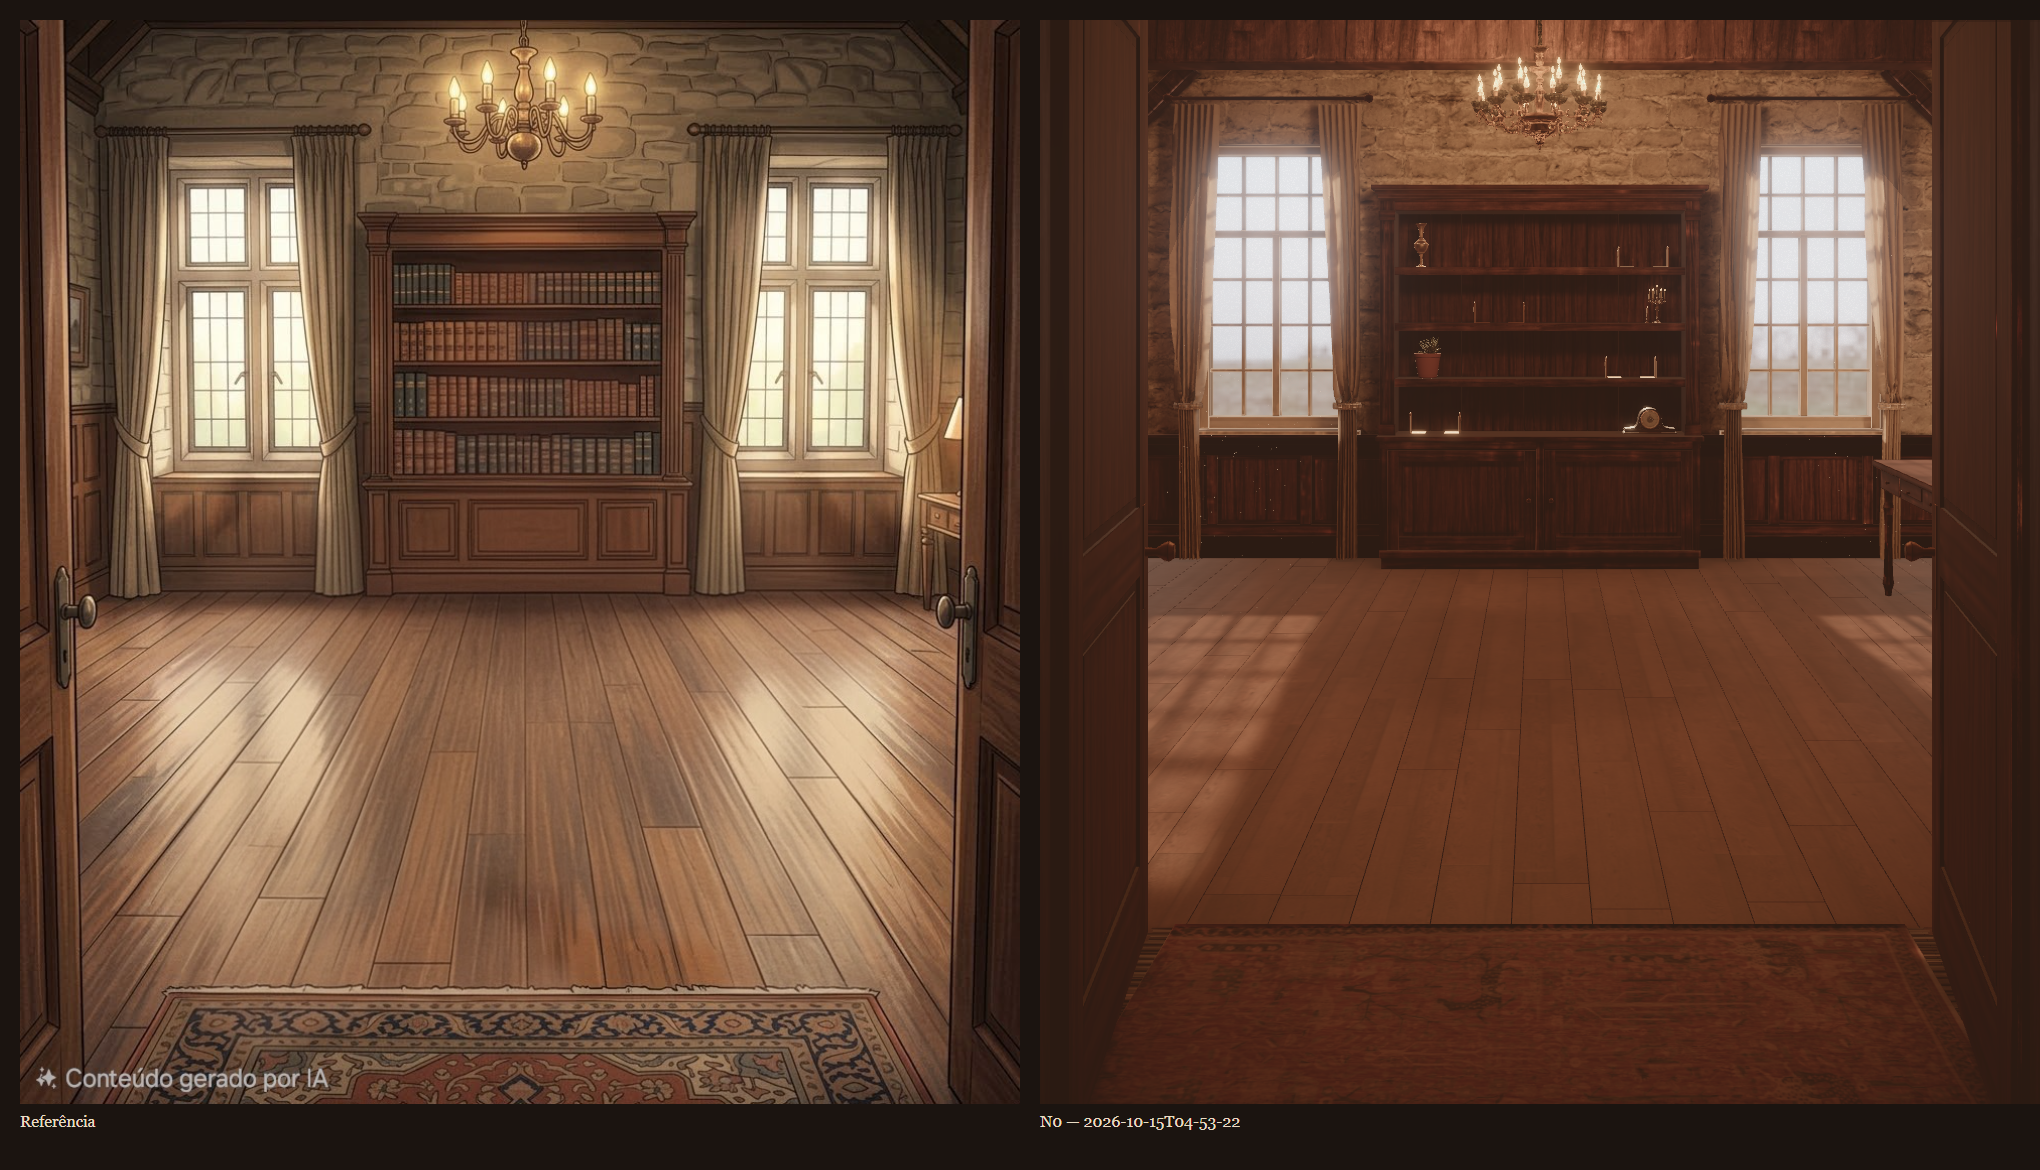
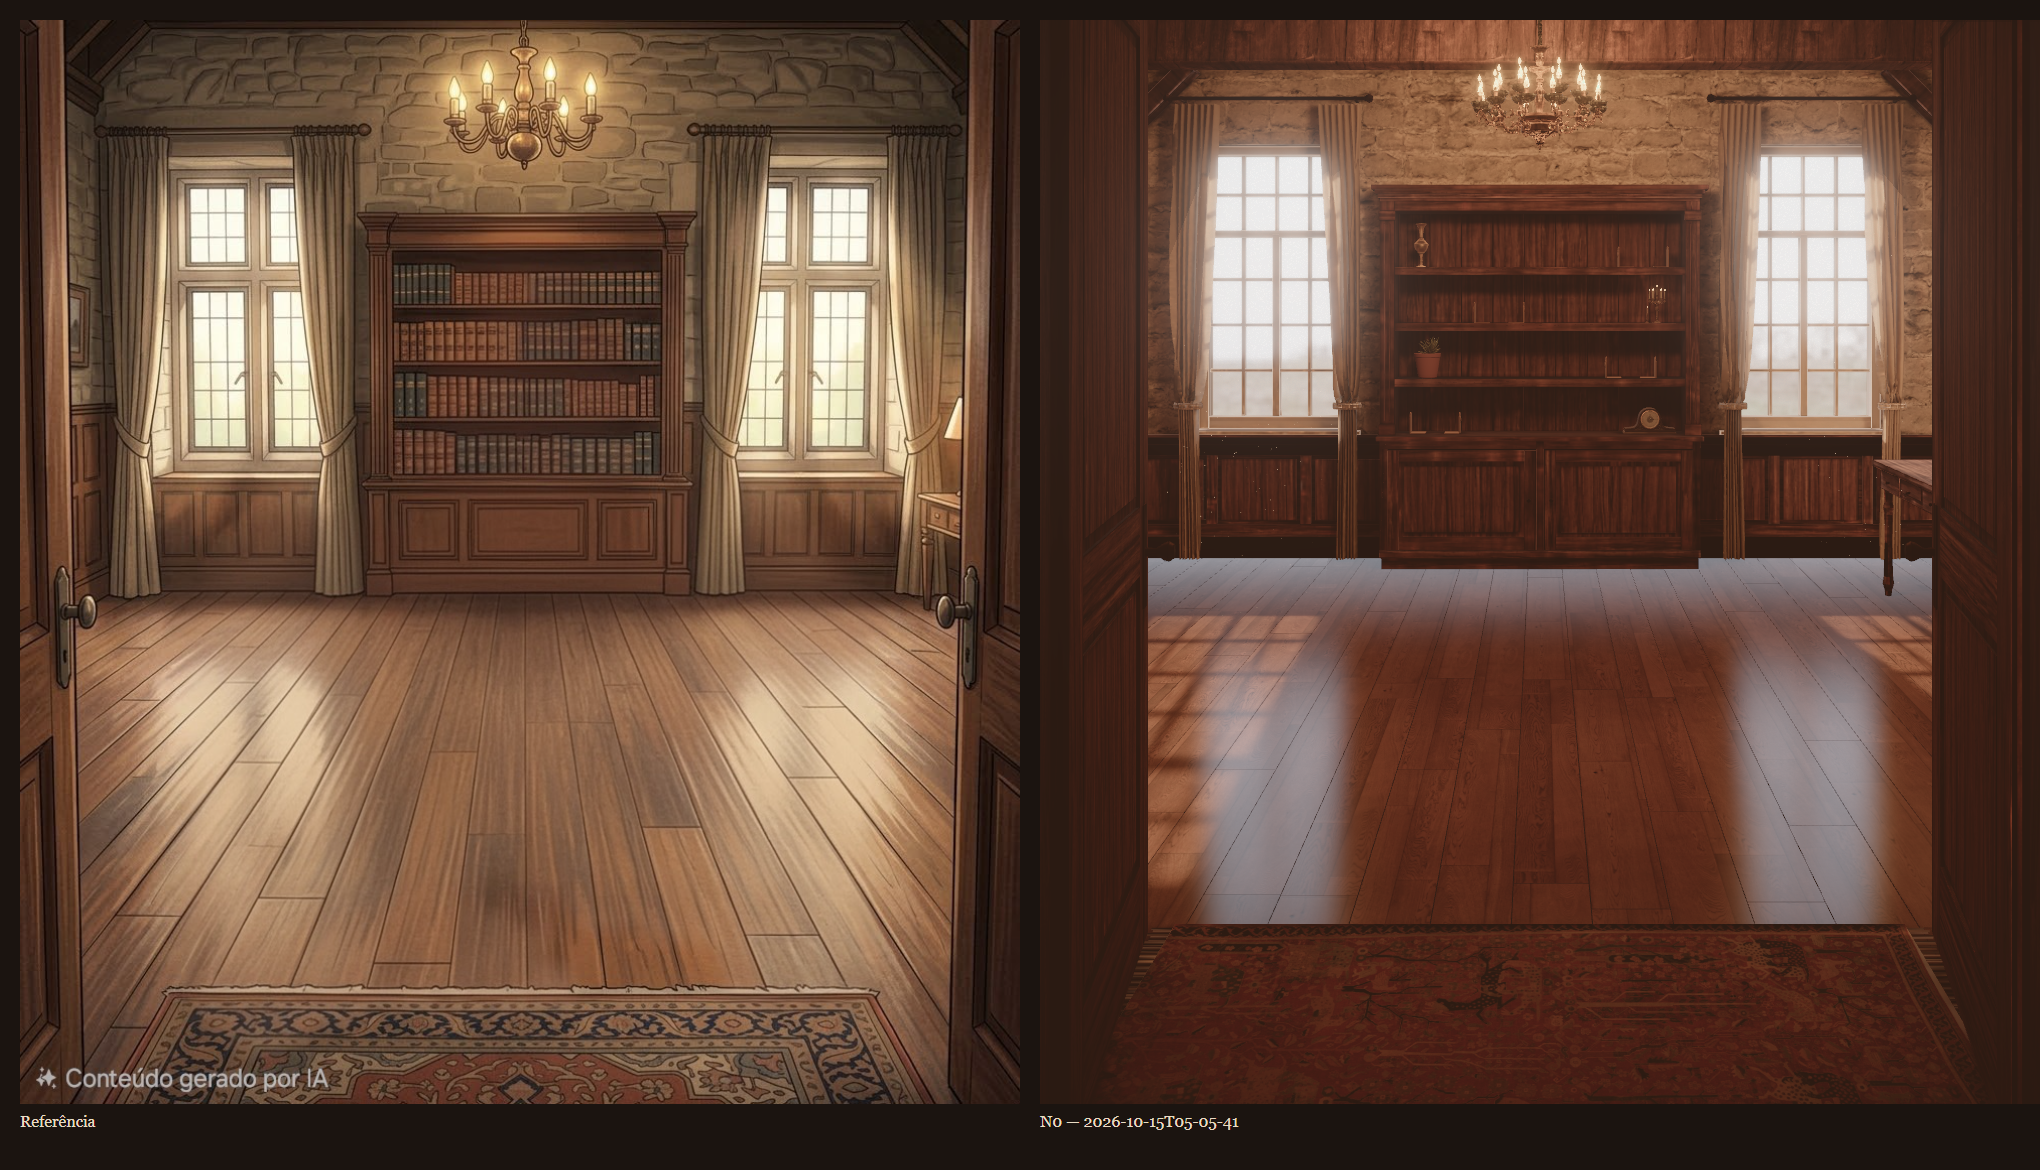
look dev: iterações 3 e 4 da sala (oclusão especular, quadriculado do sol, tapete)

diff --git a/src/scene/Lightmaps.ts b/src/scene/Lightmaps.ts
@@ -61,10 +61,17 @@ export async function loadAtlasTexture(info: AtlasInfo): Promise<Texture> {
   return tex
 }
 
-const LIGHTMAP_RGBM_CHUNK = ShaderChunk.lights_fragment_maps.replace(
-  'vec3 lightMapIrradiance = lightMapTexel.rgb * lightMapIntensity;',
-  'vec3 lightMapIrradiance = lightMapTexel.rgb * lightMapTexel.a * LB_RGBM_RANGE * lightMapIntensity;',
-)
+const LIGHTMAP_RGBM_CHUNK = ShaderChunk.lights_fragment_maps
+  .replace(
+    'vec3 lightMapIrradiance = lightMapTexel.rgb * lightMapIntensity;',
+    'vec3 lightMapIrradiance = lightMapTexel.rgb * lightMapTexel.a * LB_RGBM_RANGE * lightMapIntensity;',
+  )
+  // specular occlusion: the env map knows nothing about the room's shadows, the lightmap does
+  .replace(
+    'radiance += iblRadiance;',
+    'radiance += iblRadiance * clamp( smoothstep( 0.0, 1.6, dot( lightMapIrradiance, vec3( 0.2126, 0.7152, 0.0722 ) ) ), 0.15, 1.0 );\n\t// LB_RADIANCE_DONE',
+  )
+if (!LIGHTMAP_RGBM_CHUNK.includes('LB_RADIANCE_DONE')) throw new Error('lights_fragment_maps mudou: oclusão especular não aplicada')
 if (LIGHTMAP_RGBM_CHUNK === ShaderChunk.lights_fragment_maps) {
   throw new Error('three.js mudou o chunk lights_fragment_maps: o patch RGBM não foi aplicado')
 }
@@ -95,6 +102,13 @@ export function staticLightmapMaterial(
   const mat = (src as MeshStandardMaterial).isMeshStandardMaterial ? (src.clone() as MeshStandardMaterial) : new MeshStandardMaterial()
   mat.lightMap = lightMap
   mat.lightMapIntensity = intensity * CYCLES_TO_THREE
+  // the floor and the rug are seen at grazing angles: sharpen with anisotropic filtering
+  for (const t of [mat.map, mat.normalMap, mat.roughnessMap, mat.metalnessMap]) {
+    if (t && t.anisotropy < 8) {
+      t.anisotropy = 8
+      t.needsUpdate = true
+    }
+  }
   if (debugMode === 'static') {
     // look-dev: white albedo, lightmap + specular only
     mat.map = null
@@ -111,7 +125,7 @@ export function staticLightmapMaterial(
       shader.vertexShader = shader.vertexShader
         .replace('#include <common>', '#include <common>\nvarying vec3 lbWorldPos;')
         .replace('#include <project_vertex>', '#include <project_vertex>\n\tlbWorldPos = ( modelMatrix * vec4( transformed, 1.0 ) ).xyz;')
-      chunk = chunk.replace('radiance += iblRadiance;', `radiance += iblRadiance;\n${FLOOR_REFLECTION_SAMPLE}`)
+      chunk = chunk.replace('// LB_RADIANCE_DONE', FLOOR_REFLECTION_SAMPLE)
     }
     shader.fragmentShader = shader.fragmentShader
       .replace('#include <common>', `#include <common>\n#define LB_RGBM_RANGE ${range.toFixed(4)}\n${reflect ? FLOOR_REFLECTION_PARS : ''}`)
@@ -191,7 +205,6 @@ export function applyLightmaps(
       return out
     }
     mesh.material = Array.isArray(mesh.material) ? mesh.material.map(convert) : convert(mesh.material)
-    mesh.castShadow = false
     mesh.receiveShadow = false
     mesh.matrixAutoUpdate = false
     mesh.updateMatrix()

diff --git a/scripts/prepare-textures.ts b/scripts/prepare-textures.ts
@@ -166,15 +166,15 @@ async function main() {
   mkdirSync(OUT, { recursive: true })
 
   // Floor: wide varnished planks, warmed toward floor base #7A4E32.
-  await pbr('floor_wood', 'floor', { mean: '#6E4E36', saturation: 0.95, contrast: 1.15 }, { roughness: 0.32, spread: 0.7 })
+  await pbr('floor_wood', 'floor', { mean: '#735036', saturation: 0.7, contrast: 1.15 }, { roughness: 0.32, spread: 0.7 })
   // Stone: light limestone/sandstone #A89A84–#C8BBA2, slightly warm.
-  await pbr('wall_stone', 'stone', { mean: '#ADA18C', saturation: 0.65 }, { disp: true, roughness: 0.85 })
+  await pbr('wall_stone', 'stone', { mean: '#AA9C86', saturation: 0.55 }, { disp: true, roughness: 0.85 })
   // Bookcase: dark mahogany, 25% less saturated than the source.
-  await pbr('bookcase_wood', 'bookcase', { mean: '#4A3124', saturation: 0.5 }, { roughness: 0.42 })
+  await pbr('bookcase_wood', 'bookcase', { mean: '#5C3D2A', saturation: 0.55 }, { roughness: 0.42 })
   // Wainscot + door: same wood, one tone lighter (direção de arte: mesma família).
-  await pbr('bookcase_wood', 'wainscot', { mean: '#58392A', saturation: 0.5 }, { roughness: 0.45 })
+  await pbr('bookcase_wood', 'wainscot', { mean: '#674430', saturation: 0.55 }, { roughness: 0.45 })
   // Desk: same family, between the two.
-  await pbr('bookcase_wood', 'desk', { mean: '#523628', saturation: 0.55 }, { roughness: 0.4 })
+  await pbr('bookcase_wood', 'desk', { mean: '#5F3F2C', saturation: 0.55 }, { roughness: 0.4 })
   // Beams: rough grey wood tinted to dark brown.
   await pbr('beam_wood', 'beam', { mean: '#46322A', saturation: 0.45, contrast: 1.1 }, { roughness: 0.78 })
   // Ceiling: warm plaster, never pure white.
@@ -190,7 +190,7 @@ async function main() {
   const rugName = readdirSync(join(SRC, 'rug_albedo')).find((f) => /\.jpe?g$/i.test(f))!
   const crop = RUG_CROPS[rugName.replace(/\.jpe?g$/i, '')]
   const rug = sharp(join(SRC, 'rug_albedo', rugName)).extract(crop).rotate(90)
-  const rugImg = await colorMatch(rug, { mean: '#7E4A3A', amount: 0.4, contrast: 0.92, saturation: 0.95 })
+  const rugImg = await colorMatch(rug, { mean: '#7E4A3A', amount: 0.15, contrast: 1.05, saturation: 1.08 })
   await rugImg.resize(crop.size[0], crop.size[1], { fit: 'fill' }).jpeg({ quality: 92, mozjpeg: true }).toFile(join(OUT, 'rug_color.jpg'))
   written.rug_color = join(OUT, 'rug_color.jpg')
   await save(sharp(find('rug_pile', /_nor_gl_\d+k\./i)), 'rug_normal')

diff --git a/src/scene/Room.tsx b/src/scene/Room.tsx
@@ -1,13 +1,14 @@
 import { useGLTF } from '@react-three/drei'
 import { useThree } from '@react-three/fiber'
 import { use, useLayoutEffect, useMemo } from 'react'
-import { EquirectangularReflectionMapping, PMREMGenerator, type Texture } from 'three'
+import { EquirectangularReflectionMapping, PMREMGenerator, type Mesh, type Texture } from 'three'
 import { HDRLoader } from 'three/examples/jsm/loaders/HDRLoader.js'
 import { params } from '../app/params'
 import { useQuality } from '../state/quality'
 import { applyLightmaps, loadAtlasTexture, loadManifest, type LightmapManifest } from './Lightmaps'
 import { PlaceholderRoom } from './PlaceholderRoom'
 import { FloorReflection } from './FloorReflection'
+import { invalidateShadows } from './shadows'
 import { FloorJoints, Flames, WindowGlass } from './RoomExtras'
 
 interface RoomAssets {
@@ -48,6 +49,16 @@ function BakedRoom({ assets }: { assets: RoomAssets }) {
 
   const reflect = quality === 'high' && !params.off.has('reflect')
   const unbaked = useMemo(() => applyLightmaps(room, assets.manifest, assets.atlases, envMap, reflect), [room, assets, envMap, reflect])
+
+  // the bookcase and the back wall shade the shelf props from the real-time sun (it comes from behind)
+  useLayoutEffect(() => {
+    room.traverse((o) => {
+      const m = o as Mesh
+      const name = (Array.isArray(m.material) ? m.material[0]?.name : m.material?.name) ?? ''
+      if (m.isMesh && /^(bookcase|stone|wainscot|window_paint)/.test(name)) m.castShadow = true
+    })
+    invalidateShadows()
+  }, [room, unbaked])
 
   useLayoutEffect(() => {
     scene.environment = envMap

diff --git a/scripts/shot.ts b/scripts/shot.ts
@@ -244,7 +244,9 @@ async function main() {
   writeFileSync(statsFile, JSON.stringify(report, null, 2))
   written.push(statsFile)
 
-  for (const file of written) {
+  // look-dev/debug runs (--out or --query) never overwrite shots/latest
+  const updateLatest = !arg('out') && !extraQuery
+  for (const file of updateLatest ? written : []) {
     const target = join(latestDir, relative(outDir, file))
     mkdirSync(dirname(target), { recursive: true })
     copyFileSync(file, target)
@@ -259,7 +261,7 @@ async function main() {
     for (const e of shot.consoleErrors.slice(0, 3)) console.log(`         console: ${e.slice(0, 200)}`)
   }
   console.log(`[shot] GPU: ${gpu}`)
-  console.log(`[shot] ${relative(ROOT, outDir)} → shots/latest/`)
+  console.log(`[shot] ${relative(ROOT, outDir)}${updateLatest ? ' → shots/latest/' : ' (shots/latest intocado)'}`)
   process.exit(failed ? 1 : 0)
 }
 

diff --git a/src/scene/Sky.tsx b/src/scene/Sky.tsx
@@ -32,7 +32,8 @@ export function Sky({ intensity = 3.4 }: { intensity?: number }) {
       frustumCulled={false}
       onUpdate={(m) => m.layers.enable(REFLECT_LAYER)}
     >
-      <meshBasicMaterial map={tex} side={BackSide} depthWrite={false} color={new Color(intensity, intensity, intensity)} fog={false} />
+      {/* warm, blown-out late-afternoon backplate (the bake keeps the real sky for the light) */}
+      <meshBasicMaterial map={tex} side={BackSide} depthWrite={false} color={new Color(intensity * 1.18, intensity * 1.0, intensity * 0.78)} fog={false} />
     </mesh>
   )
 }

diff --git a/src/scene/SceneRoot.tsx b/src/scene/SceneRoot.tsx
@@ -24,6 +24,10 @@ export function SceneRoot() {
         gl={{ antialias: false, toneMapping: NoToneMapping, preserveDrawingBuffer: params.shot }}
         dpr={quality === 'high' ? [1, 2] : 1}
         shadows={quality === 'high' ? 'soft' : false}
+        onCreated={({ gl }) => {
+          // +0.3 EV over the Cycles setup (the reference reads brighter); AgX reads this uniform
+          gl.toneMappingExposure = 1.23
+        }}
         camera={{ near: 0.05, far: 60 }}
       >
         <CameraRig />

diff --git a/src/scene/LightBeams.tsx b/src/scene/LightBeams.tsx
@@ -173,7 +173,7 @@ export function LightBeams() {
       new ShaderMaterial({
         vertexShader: beamVertex,
         fragmentShader: beamFragment,
-        uniforms: { uColor: { value: sunColor }, uIntensity: { value: 1.3 }, uTime: { value: 0 } },
+        uniforms: { uColor: { value: sunColor }, uIntensity: { value: 2.4 }, uTime: { value: 0 } },
         transparent: true,
         depthWrite: false,
         blending: AdditiveBlending,

diff --git a/src/scene/DynamicLights.tsx b/src/scene/DynamicLights.tsx
@@ -48,10 +48,10 @@ export function DynamicLights() {
     s.target.position.set(target[0], 1.4, target[2])
     s.target.updateMatrixWorld()
     const cam = s.shadow.camera
-    cam.left = -1.4
-    cam.right = 1.4
-    cam.top = 1.6
-    cam.bottom = -1.6
+    cam.left = -1.6
+    cam.right = 1.6
+    cam.top = 2.0
+    cam.bottom = -2.0
     cam.near = 0.1
     cam.far = 12
     cam.updateProjectionMatrix()

diff --git a/blender/build_room.py b/blender/build_room.py
@@ -757,7 +757,7 @@ if flames:
 L = cfg["lighting"]
 sun_data = bpy.data.lights.new("sun", "SUN")
 sun_data.energy = 11.0
-sun_data.angle = math.radians(1.5)
+sun_data.angle = math.radians(0.8)
 sun_data.color = kelvin_to_rgb(L["sun"]["kelvin"])
 sun = bpy.data.objects.new("sun", sun_data)
 sun.rotation_euler = sun_rotation_blender(L["sun"])
@@ -835,9 +835,16 @@ mix.data_type = "RGBA"
 nt.links.new(lp.outputs["Is Camera Ray"], mix.inputs["Factor"])
 nt.links.new(clamp.outputs["Vector"], mix.inputs[6])
 nt.links.new(env.outputs["Color"], mix.inputs[7])
+# cooler, stronger sky fill (~6500 K): the warmth must come from where the sun lands
+cool = nt.nodes.new("ShaderNodeMix")
+cool.data_type = "RGBA"
+cool.blend_type = "MULTIPLY"
+cool.inputs["Factor"].default_value = 1.0
+cool.inputs[7].default_value = (0.82, 0.93, 1.15, 1.0)
+nt.links.new(mix.outputs[2], cool.inputs[6])
 bg = nt.nodes.new("ShaderNodeBackground")
-bg.inputs["Strength"].default_value = 1.0
-nt.links.new(mix.outputs[2], bg.inputs["Color"])
+bg.inputs["Strength"].default_value = 1.7
+nt.links.new(cool.outputs[2], bg.inputs["Color"])
 wout = nt.nodes.new("ShaderNodeOutputWorld")
 nt.links.new(bg.outputs["Background"], wout.inputs["Surface"])
 log("lights + world")

diff --git a/blender/geo.py b/blender/geo.py
@@ -69,12 +69,17 @@ class MeshBuilder:
         return f
 
     def box(self, mn, mx, tile: float = 1.0, grain: str = "x", material: str | None = None,
-            uv_offset=(0.0, 0.0), color=None, skip: tuple[str, ...] = ()):
+            uv_offset=None, color=None, skip: tuple[str, ...] = ()):
         """Axis-aligned box in three.js space. `grain` is the world axis that follows texture U.
         `skip` lists faces to omit: '-x', '+x', '-y', '+y', '-z', '+z'."""
         x0, y0, z0 = mn
         x1, y1, z1 = mx
-        ou, ov = uv_offset
+        if uv_offset is None:
+            # a different patch of the texture for every piece: breaks the repetition of the grain
+            h = math.sin(x0 * 12.9898 + y0 * 78.233 + z0 * 37.719 + x1 * 4.1 + z1 * 2.3) * 43758.5453
+            ou, ov = h - math.floor(h), (h * 7.31) - math.floor(h * 7.31)
+        else:
+            ou, ov = uv_offset
 
         def uv_for(p, normal_axis):
             # the two in-plane axes, ordered so U follows `grain` when possible

diff --git a/docs/look-dev/iteracoes.md b/docs/look-dev/iteracoes.md
@@ -24,3 +24,11 @@ Cada entrada: data/hora, o que mudou, notas por critério (art-reviewer), diverg
 ### S2 — 2026-10-15 ~01:53 (draft)
 - Mudanças: madeiras com saturação 0,5 e média marrom; pedra bege-acinzentada; balanço de branco mais frio e dessaturação leve pós-AgX (0,86); sol 28°/5°, força 11 (duas manchas no N0); tapete e escrivaninha em modo `lightmap` (textura 2K própria); reflexo do piso só planar, mais borrado e mais fraco; latão dos props acetinado; varões mais curtos e mãos-francesas menores; folhas da porta a 98°; céu e feixes mais fortes.
 - A faixa clara no piso junto à parede do fundo vem do lightmap (luz do céu das janelas), não do reflexo: conferido com `?off=reflect`.
+
+### S3 — 2026-10-15 ~01:58 (draft)
+- Mudanças: céu do bake mais frio e forte (preenchimento), médias de albedo na paleta, exposição +0,3 EV, estante/parede projetam sombra nos props, anisotropia 8, piso menos saturado.
+- **art-reviewer:** composição 3 · luz 3 · reflexo 3 · estante 3 · nada plástico 2 — "iterar". (Na S2 a nota do reflexo foi dada sobre um shot de depuração sem reflexo; o `shot.ts` não sobrescreve mais `shots/latest` em execuções de depuração.)
+- Divergências: véu especular frio nas superfícies horizontais (env sem oclusão); fim de tarde pouco legível (céu cinza, quadriculado fraco, feixes invisíveis no N0); tapete monocromático, veio repetido no fundo da estante e lambri, bases dos apoios chapadas.
+
+### S4 — 2026-10-15 ~02:06 (draft)
+- Mudanças: oclusão especular pelo lightmap nos estáticos (o env não sabe das sombras da sala); sol com penumbra 0,8° (quadriculado das janelas nítido e alongado no piso); céu das janelas quente e estourado no app; feixes mais fortes; tapete com o contraste original do Met; deslocamento aleatório de UV por peça (quebra a repetição do veio).

diff --git a/docs/decisoes.md b/docs/decisoes.md
@@ -166,3 +166,9 @@ Formato de cada entrada:
 - Escolha: `lighting.sun.elevationDeg` 32 → 28 (manchas mais longas, vindo para a câmera), `lateralDeg` 15 → 5 (as duas manchas entram no quadro do N0); força do sol no Blender 7 → 11 (e a luz dinâmica dos props igual). Albedos de madeira com saturação 0,5–0,55 e média mais marrom; pedra mais bege-acinzentada; balanço de branco um pouco mais frio. Tapete e escrivaninha passam a `lightmap` (PBR com textura própria em 2K, desenho persa nítido) no atlas da casca. `curtains.rodOverhang` 0,2 → 0,12 e mãos-francesas menores (o varão atravessava a mão-francesa). `door.openInwardDeg` 105 → 98 (face das folhas um pouco mais visível).
 - Como reverter: `config/room.json`, `blender/build_room.py` (`sun_data.energy`), `scripts/prepare-textures.ts`, `blender/bake_config.json`.
 - Precisa do usuário? não.
+
+## 2026-10-15 — Look dev it.3: céu mais frio e forte como preenchimento, exposição +0,3 EV
+- Contexto: `art-reviewer` (it.2) — tom geral sépia sem neutros; o quente deve vir só de onde o sol bate.
+- Escolha: World do Cycles multiplicado por (0,82; 0,93; 1,15) e força 1,0 → 1,7; sol mantido em 3200 K. Médias dos albedos alinhadas à paleta (piso #7A4E32, estante #5C3D2A, lambri #674430, pedra #AA9C86). `toneMappingExposure` 1,23 no app.
+- Como reverter: `blender/build_room.py` (bloco World), `scripts/prepare-textures.ts`, `src/scene/SceneRoot.tsx`.
+- Precisa do usuário? não.
